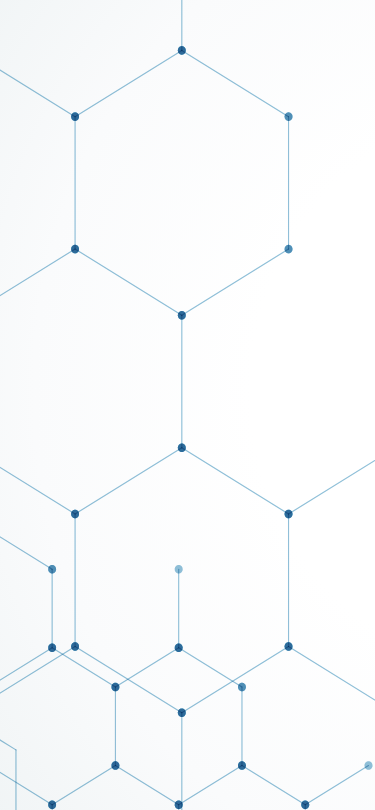
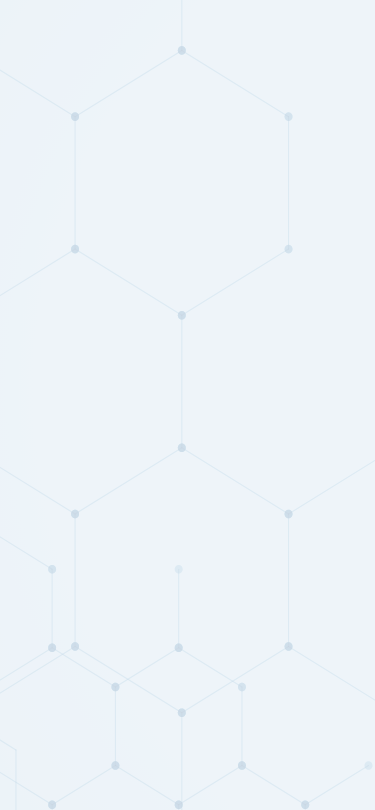
Sales graph changes
Sales dashboard change and background set

diff --git a/nTireofficeApp/src/app/Sales_pages/addcontact/addcontact.page.html b/nTireofficeApp/src/app/Sales_pages/addcontact/addcontact.page.html
@@ -1,8 +1,13 @@
 <ion-header>
   <ion-toolbar>
 
-    <ion-title>Add contact</ion-title>
-    <ion-icon name="close-circle" (click)="closemodel()" style="float:right"></ion-icon>
+    <ion-title>Add Contact</ion-title>
+    <i class="fa-solid fa-circle-xmark" name="close-circle" (click)="closemodel()"
+    style="float:right"></i>
+    <!-- <i class="fa fa-times-circle-o" aria-hidden="true" name="close-circle" (click)="closemodel()"
+      style="float:right"></i> -->
+
+    <!-- <ion-icon name="close-circle" (click)="closemodel()" style="float:right"></ion-icon> -->
   </ion-toolbar>
 </ion-header>
 
@@ -12,61 +17,64 @@
     <ion-row>
       <ion-col size-sm="12" size="12" size-md="12" size-lg="12" size-xl="6">
         <ion-label>Function</ion-label>
-          <ion-input  style="background-color: #d4d4d4!important;" class="form-control"[(ngModel)]="function"></ion-input>
-        </ion-col>
-        <ion-col size-sm="12" size="12" size-md="12" size-lg="12" size-xl="6">
-          <ion-label>Company Name<span style="color:red;margin-left: 5px;">*</span></ion-label>
-          <ion-searchbar  [(ngModel)]="company" type="text" debounce="500" (ionInput)="getItems($event)"></ion-searchbar>
-<ion-list *ngIf="isItemAvailable" class="companyautopop" style="position:relative;top:-7px;width:97%;left:9px;">
-  <ion-item *ngFor="let item of companyname1" (click)="adddata(item)" style="background:none !important;color:#444 !important">
-    {{ item }}
-  </ion-item>
-</ion-list>
-          <!-- <ion-input   class="form-control"   [(ngModel)]="companyname"></ion-input> -->
-          </ion-col>
-          <ion-col size-sm="12" size="12" size-md="12" size-lg="12" size-xl="6">
-            <ion-label>Contact Name<span style="color:red;margin-left: 5px;">*</span></ion-label>
-            <ion-input   class="form-control"   [(ngModel)]="contactname"></ion-input>
-            </ion-col>
-            <ion-col size-sm="12" size="12" size-md="12" size-lg="12" size-xl="6">
-              <ion-label>Designation<span style="color:red;margin-left: 5px;">*</span></ion-label>
-              <ion-input   class="form-control"   [(ngModel)]="designation"></ion-input>
-              </ion-col>
-              <ion-col size-sm="12" size="12" size-md="12" size-lg="12" size-xl="6">
-                <ion-label>Email Id<span style="color:red;margin-left: 5px;">*</span></ion-label>
-                <ion-input   class="form-control"  (change)="emailnumbaervalid(emailid)" [(ngModel)]="emailid"></ion-input>
-                <span *ngIf="emailid && validemail">
-                  <span class="error">Valid email is required</span>
-                </span>
-                </ion-col>
-                <ion-col size-sm="12" size="12" size-md="12" size-lg="12" size-xl="6">
-                  <ion-label>Mobile Number<span style="color:red;margin-left: 5px;">*</span></ion-label>
-                  <ion-input type="tel" class="form-control" pattern="[0-9]*" [(ngModel)]="mobilenumber" minlength="10" maxlength="15"
-                  #umobile="ngModel"></ion-input>
-                  <div *ngIf="umobile.errors?.minlength || umobile.errors?.maxlength">
-                    <p style="color:red;">valid mobile number required</p>
-                  </div>
+        <ion-input style="background-color: #d4d4d4!important;" class="form-control" [(ngModel)]="function"></ion-input>
+      </ion-col>
+      <ion-col size-sm="12" size="12" size-md="12" size-lg="12" size-xl="6">
+        <ion-label>Company Name<span style="color:red;margin-left: 5px;">*</span></ion-label>
+        <ion-searchbar [(ngModel)]="company" type="text" debounce="500" (ionInput)="getItems($event)"></ion-searchbar>
+        <ion-list *ngIf="isItemAvailable" class="companyautopop" style="position:relative;top:-7px;width:97%;left:9px;">
+          <ion-item *ngFor="let item of companyname1" (click)="adddata(item)"
+            style="background:none !important;color:#444 !important">
+            {{ item }}
+          </ion-item>
+        </ion-list>
+        <!-- <ion-input   class="form-control"   [(ngModel)]="companyname"></ion-input> -->
+      </ion-col>
+      <ion-col size-sm="12" size="12" size-md="12" size-lg="12" size-xl="6">
+        <ion-label>Contact Name<span style="color:red;margin-left: 5px;">*</span></ion-label>
+        <ion-input class="form-control" [(ngModel)]="contactname"></ion-input>
+      </ion-col>
+      <ion-col size-sm="12" size="12" size-md="12" size-lg="12" size-xl="6">
+        <ion-label>Designation<span style="color:red;margin-left: 5px;">*</span></ion-label>
+        <ion-input class="form-control" [(ngModel)]="designation"></ion-input>
+      </ion-col>
+      <ion-col size-sm="12" size="12" size-md="12" size-lg="12" size-xl="6">
+        <ion-label>Email Id<span style="color:red;margin-left: 5px;">*</span></ion-label>
+        <ion-input class="form-control" (change)="emailnumbaervalid(emailid)" [(ngModel)]="emailid"></ion-input>
+        <span *ngIf="emailid && validemail">
+          <span class="error">Valid email is required</span>
+        </span>
+      </ion-col>
+      <ion-col size-sm="12" size="12" size-md="12" size-lg="12" size-xl="6">
+        <ion-label>Mobile Number<span style="color:red;margin-left: 5px;">*</span></ion-label>
+        <ion-input type="tel" class="form-control" pattern="[0-9]*" [(ngModel)]="mobilenumber" minlength="10"
+          maxlength="15" #umobile="ngModel"></ion-input>
+        <div *ngIf="umobile.errors?.minlength || umobile.errors?.maxlength">
+          <p style="color:red;">valid mobile number required</p>
+        </div>
 
 
 
-                </ion-col>
+      </ion-col>
 
-                  <ion-col size-sm="12" size="12" size-md="12" size-lg="12" size-xl="6">
-                    <ion-label>Office Number</ion-label>
-                    <ion-input type="tel" class="form-control" pattern="[0-9]*" [(ngModel)]="officenumber" minlength="10" maxlength="15"
-                  #uname="ngModel"></ion-input>
-                  <div *ngIf="uname.errors?.minlength || uname.errors?.maxlength">
-                    <p style="color:red;">valid mobile number required</p>
-                  </div>
+      <ion-col size-sm="12" size="12" size-md="12" size-lg="12" size-xl="6">
+        <ion-label>Office Number</ion-label>
+        <ion-input type="tel" class="form-control" pattern="[0-9]*" [(ngModel)]="officenumber" minlength="10"
+          maxlength="15" #uname="ngModel"></ion-input>
+        <div *ngIf="uname.errors?.minlength || uname.errors?.maxlength">
+          <p style="color:red;">valid mobile number required</p>
+        </div>
 
-                    </ion-col>
-        </ion-row>
-        </ion-grid>
-        <ion-grid>
-          <ion-row>
-            <ion-col size-sm="12" size="12" size-md="12" size-lg="12" size-xl="12">
-              <ion-button color="success" [disabled]="company==undefined || contactname==undefined || designation==undefined || emailid==undefined || mobilenumber==undefined || validmobile==true || validemail==true" (click)="AddContact()" size="full">Submit</ion-button>
-            </ion-col>
-          </ion-row>
-        </ion-grid>
+      </ion-col>
+    </ion-row>
+  </ion-grid>
+  <ion-grid>
+    <ion-row>
+      <ion-col size-sm="12" size="12" size-md="12" size-lg="12" size-xl="12">
+        <ion-button color="success"
+          [disabled]="company==undefined || contactname==undefined || designation==undefined || emailid==undefined || mobilenumber==undefined || validmobile==true || validemail==true"
+          (click)="AddContact()" size="full">Submit</ion-button>
+      </ion-col>
+    </ion-row>
+  </ion-grid>
 </ion-content>

diff --git a/nTireofficeApp/src/app/Sales_pages/dashboard/dashboard.page.ts b/nTireofficeApp/src/app/Sales_pages/dashboard/dashboard.page.ts
@@ -1,3 +1,19 @@
+/* eslint-disable arrow-body-style */
+/* eslint-disable space-before-function-paren */
+/* eslint-disable prefer-arrow/prefer-arrow-functions */
+/* eslint-disable eqeqeq */
+/* eslint-disable @typescript-eslint/prefer-for-of */
+/* eslint-disable object-shorthand */
+/* eslint-disable radix */
+/* eslint-disable prefer-const */
+/* eslint-disable @typescript-eslint/member-ordering */
+/* eslint-disable @typescript-eslint/type-annotation-spacing */
+/* eslint-disable max-len */
+/* eslint-disable no-var */
+/* eslint-disable quote-props */
+/* eslint-disable @typescript-eslint/dot-notation */
+/* eslint-disable @typescript-eslint/naming-convention */
+/* eslint-disable @typescript-eslint/quotes */
 import { Component, OnInit, ViewChild } from '@angular/core';
 import { HttpClient, HttpHeaders } from '@angular/common/http';
 import { AlertController, MenuController, NavController } from '@ionic/angular';
@@ -76,7 +92,7 @@ export class DashboardPage implements OnInit {
       this.branchlist = resp;
 
       this.branchlist.forEach(element => {
-        this.branchlist1.push(element)
+        this.branchlist1.push(element);
         console.log("branchlist1 : " + JSON.stringify(this.branchlist1));
       });
 
@@ -129,16 +145,16 @@ export class DashboardPage implements OnInit {
           label: branch,
 
           data: this.datap,
-          backgroundColor: '#458CAF',
+          backgroundColor: '#2ebaed',
 
-        }]
+        }];
 
       if (this.barChart) {
         this.barChart.destroy();
       }
       this.barChart = new Chart(this.barCanvas.nativeElement, {
 
-        type: 'bar',
+        type: 'line',
 
         data: {
           labels: this.labelsp,
@@ -214,15 +230,15 @@ export class DashboardPage implements OnInit {
 
       sourecfinal = resp;
       this.sourcelabel = ['Web Lead', 'Personal', 'Branch', 'Corporate Website', 'Mobile', 'Call Center'];
-      this.sourcedata = [sourecfinal[0]['Web Lead'], sourecfinal[0]['Personal Lead'], sourecfinal[0]['Branch'], sourecfinal[0]['Corporate Website'], sourecfinal[0]['Mobile'], sourecfinal[0]['Call Center']]
+      this.sourcedata = [sourecfinal[0]['Web Lead'], sourecfinal[0]['Personal Lead'], sourecfinal[0]['Branch'], sourecfinal[0]['Corporate Website'], sourecfinal[0]['Mobile'], sourecfinal[0]['Call Center']];
 
       sourcearray = [
         {
 
           data: this.sourcedata,
-          backgroundColor: '#458CAF',
+          backgroundColor: '#1b6aa8',
 
-        }]
+        }];
       if (this.sourcechart) {
         this.sourcechart.destroy();
       }
@@ -318,9 +334,9 @@ export class DashboardPage implements OnInit {
 
       for (var i = 0; i < top10.length; i++) {
         this.Productlabel.push(top10[i].Product);
-        this.totalleads.push(top10[i]['Total Leads'])
-        this.closedleades.push(top10[i]['Closed Leads'])
-        this.percenclosedleads.push(top10[i]['% Closed Leads'])
+        this.totalleads.push(top10[i]['Total Leads']);
+        this.closedleades.push(top10[i]['Closed Leads']);
+        this.percenclosedleads.push(top10[i]['% Closed Leads']);
       }
       if (this.productchart) {
         this.productchart.destroy();
@@ -335,7 +351,7 @@ export class DashboardPage implements OnInit {
             label: 'Total Leads',
             yAxisID: 'A',
             data: this.totalleads,
-            borderColor: '#458CAF',
+            borderColor: '#da70a6',
 
           },
           {
@@ -347,8 +363,8 @@ export class DashboardPage implements OnInit {
             label: 'Closed Leads',
             yAxisID: 'B',
             data: this.closedleades,
-            borderColor: '#ffb3d9',
-            backgroundColor: ' #ffe6f2'
+            borderColor: '#856c6c',
+            backgroundColor: ' #4a95ba'
           },
 
           ]
@@ -408,7 +424,7 @@ export class DashboardPage implements OnInit {
         else {
           if (nottop10[i].Product.length > 10) {
             nottop10[i].Product = nottop10[i].Product.substring(0, 10) + '...';
-            console.log(nottop10[i])
+            console.log(nottop10[i]);
           }
 
           this.labels1n.push(nottop10[i].Product);
@@ -429,7 +445,7 @@ export class DashboardPage implements OnInit {
             label: 'Total Leads',
             yAxisID: 'A',
             data: this.total_leads_datan,
-            borderColor: '#458CAF',
+            borderColor: '#da70a6',
           },
           {
             label: '% Closed Leads',
@@ -440,8 +456,8 @@ export class DashboardPage implements OnInit {
             label: 'Closed Leads',
             yAxisID: 'B',
             data: this.perc_closedn,
-            borderColor: '#ffb3d9',
-            backgroundColor: ' #ffe6f2'
+            borderColor: '#856c6c',
+            backgroundColor: ' #4a95ba'
           },
 
           ]

diff --git a/nTireofficeApp/src/app/Sales_pages/newlead-retail/newlead-retail.page.html b/nTireofficeApp/src/app/Sales_pages/newlead-retail/newlead-retail.page.html
@@ -216,7 +216,8 @@
       <ion-col size-sm="6" size="12" size-md="6" size-lg="6" size-xl="4">
         <ion-label>Attach Document</ion-label>
         <br />
-        <ion-icon style="font-size:28px;position: relative;left:50%" ios="ios-attach" md="md-attach" (click)="selectImage()"></ion-icon>
+        <i class="fa fa-paperclip" aria-hidden="true" style="font-size:28px;position: relative;left:50%" ios="ios-attach" md="md-attach" (click)="selectImage()"></i>
+        <!-- <ion-icon style="font-size:28px;position: relative;left:50%" ios="ios-attach" md="md-attach" (click)="selectImage()"></ion-icon> -->
         <div style="display:none;word-break: break-all;">
           <input type="file" name="file" id="fileinput"/>
         </div>

diff --git a/nTireofficeApp/src/app/Sales_pages/newleadcorporate/newleadcorporate.page.html b/nTireofficeApp/src/app/Sales_pages/newleadcorporate/newleadcorporate.page.html
@@ -210,7 +210,8 @@
       <ion-col size-sm="6" size="12" size-md="6" size-lg="6" size-xl="4">
         <ion-label>Attach Document</ion-label>
         <br />
-        <ion-icon style="font-size:28px;position: relative;left:50%" ios="ios-attach" md="md-attach" (click)="selectImage()"></ion-icon>
+        <i class="fa fa-paperclip" aria-hidden="true" style="font-size:28px;position: relative;left:50%" ios="ios-attach" md="md-attach" (click)="selectImage()"></i>
+        <!-- <ion-icon style="font-size:28px;position: relative;left:50%" ios="ios-attach" md="md-attach" (click)="selectImage()"></ion-icon> -->
         <div style="display:none;word-break: break-all;">
           <input type="file" name="file" id="fileinput"/>
         </div>

diff --git a/nTireofficeApp/src/app/Sales_pages/newlead-retail/newlead-retail.page.ts b/nTireofficeApp/src/app/Sales_pages/newlead-retail/newlead-retail.page.ts
@@ -443,7 +443,7 @@ username:any;
         this.currentlocation = this.generateAddress(result[0]);
       })
       .catch((error: any) => {
-        this.presentAlert('', 'Error getting location');
+        // this.presentAlert('', 'Error getting location');
       });
 
     $('#fileinput').trigger('click');
@@ -541,7 +541,7 @@ username:any;
         this.currentlocation = this.generateAddress(result[0]);
       })
       .catch((error: any) => {
-        this.presentAlert('', 'Error getting location');
+        // this.presentAlert('', 'Error getting location');
       });
     this.imagecif = Math.floor((Math.random() * 1000000000000000) + 1);
     const options: CameraOptions = {

diff --git a/nTireofficeApp/src/app/Sales_pages/dashboard/dashboard.page.scss b/nTireofficeApp/src/app/Sales_pages/dashboard/dashboard.page.scss
@@ -1,7 +1,7 @@
-// ion-content {
-//   --background: url('../../../assets/images/tpbackground.png') repeat !important;
-//   position: relative;
-// }
+ion-content {
+  --background: url('../../../assets/images/tpbackground.png') repeat !important;
+  position: relative;
+}
 
 .sc-ion-card-md-h{
   --background:#fff;
